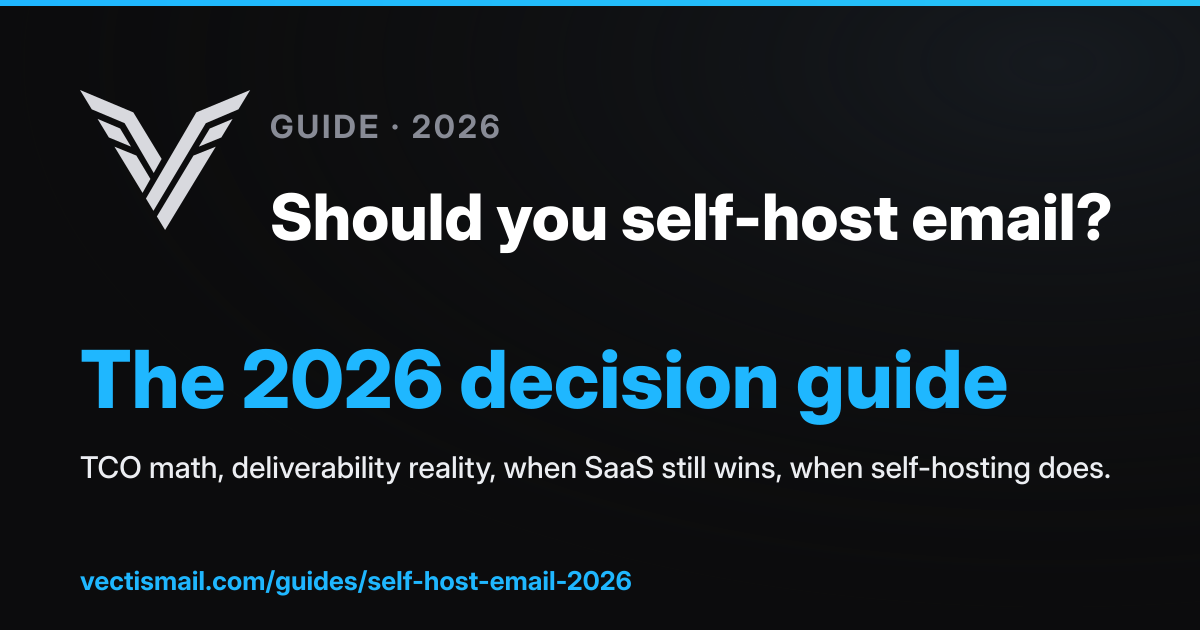
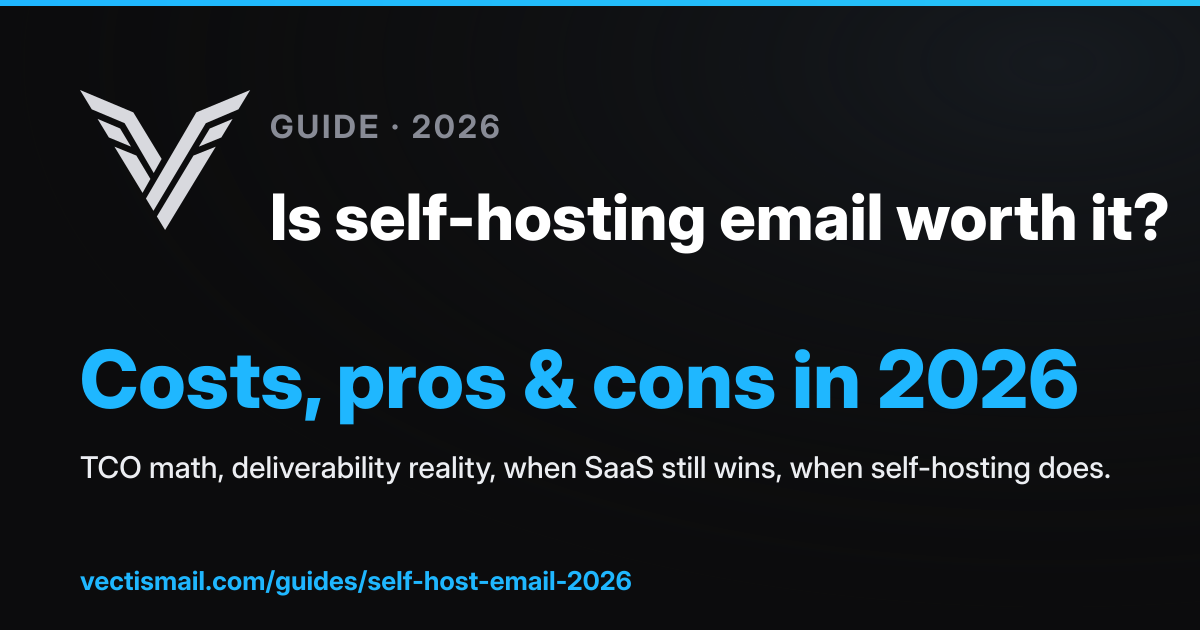
seo(guide): retitle self-host-email-2026 for its own intent
28 days to 5 Oct: 109 impressions at position 8.0, 0 clicks (335 / 2
since March). The visible queries are "best self-hosted email server
2026" variants -- the pillar's intent, which this "should you" page
can't satisfy -- plus "pros cons", "cost" and "best ways to self-host".
New title owns the cost / pros-and-cons / worth-it intent (58 chars,
verdict-promising, the pattern that took the pillar from 0.83% to 1.82%
CTR in 4929182f) and stops competing with the pillar for "best".
The description leads with the page's own scoped cost figure. Anchor
text in the deliverability guide, llms.txt and the OG card updated to
match. Body unchanged, so lastUpdated stays 2026-06-21.

Changed region(s): [[0.0617, 0.5429, 0.8942, 0.6937], [0.2158, 0.3016, 0.9867, 0.4222]]

diff --git a/src/content/docs/guides/deliverability.md b/src/content/docs/guides/deliverability.md
@@ -17,7 +17,7 @@ faq:
 Deliverability is the percentage of your emails that reach the inbox rather than the spam folder or a bounce. Running your own mail server gives you full control over your sending reputation, but it also means you are responsible for maintaining it. This guide covers everything you need to know.
 
 :::note
-Deliverability is the single biggest factor in whether self-hosting is right for you. If you're still weighing it up, start with **[Should You Self-Host Email? The 2026 Decision Guide](/guides/self-host-email-2026/)** — it covers the real deliverability bar honestly before you commit.
+Deliverability is the single biggest factor in whether self-hosting is right for you. If you're still weighing it up, start with **[Is Self-Hosting Email Worth It in 2026? Costs, Pros & Cons](/guides/self-host-email-2026/)** — it covers the real deliverability bar honestly before you commit.
 :::
 
 ## The deliverability stack

diff --git a/src/content/docs/guides/self-host-email-2026.md b/src/content/docs/guides/self-host-email-2026.md
@@ -1,6 +1,6 @@
 ---
-title: "Should You Self-Host Email? The 2026 Decision Guide"
-description: "An honest 2026 guide to self-hosting email: TCO vs SendGrid, Postmark and Google Workspace, the deliverability bar, when SaaS wins, and the minimal stack."
+title: "Is Self-Hosting Email Worth It in 2026? Costs, Pros & Cons"
+description: "Is self-hosting email worth it in 2026? What it really costs (about $25–50/month for a small SaaS), the deliverability bar to clear, and when SaaS still wins."
 lastUpdated: 2026-06-21
 faq:
   - q: "Is self-hosting email illegal in 2026?"
